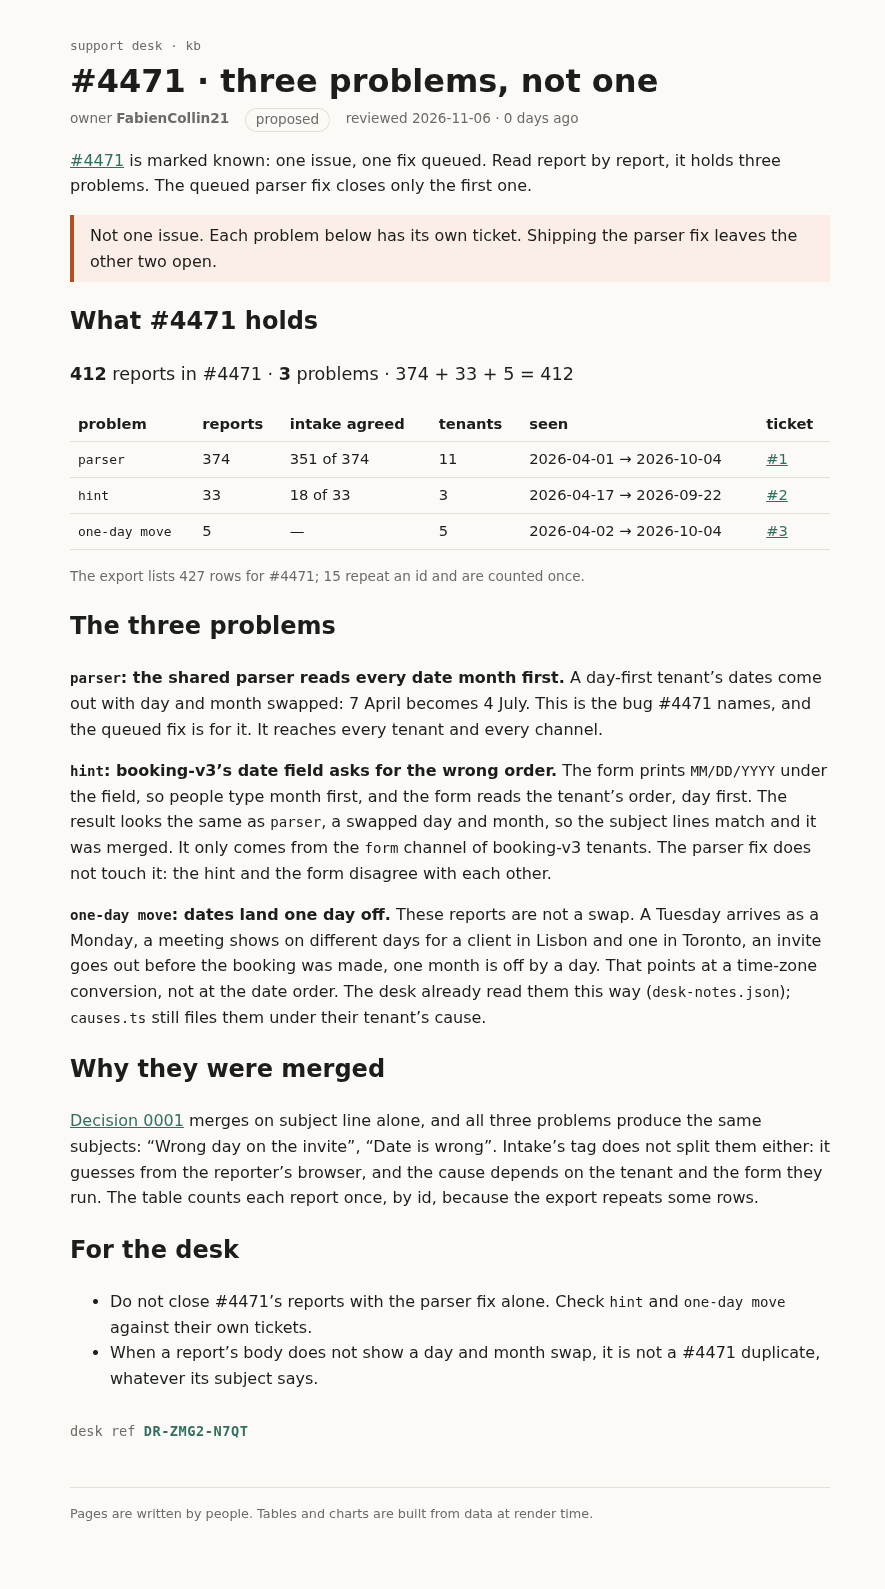
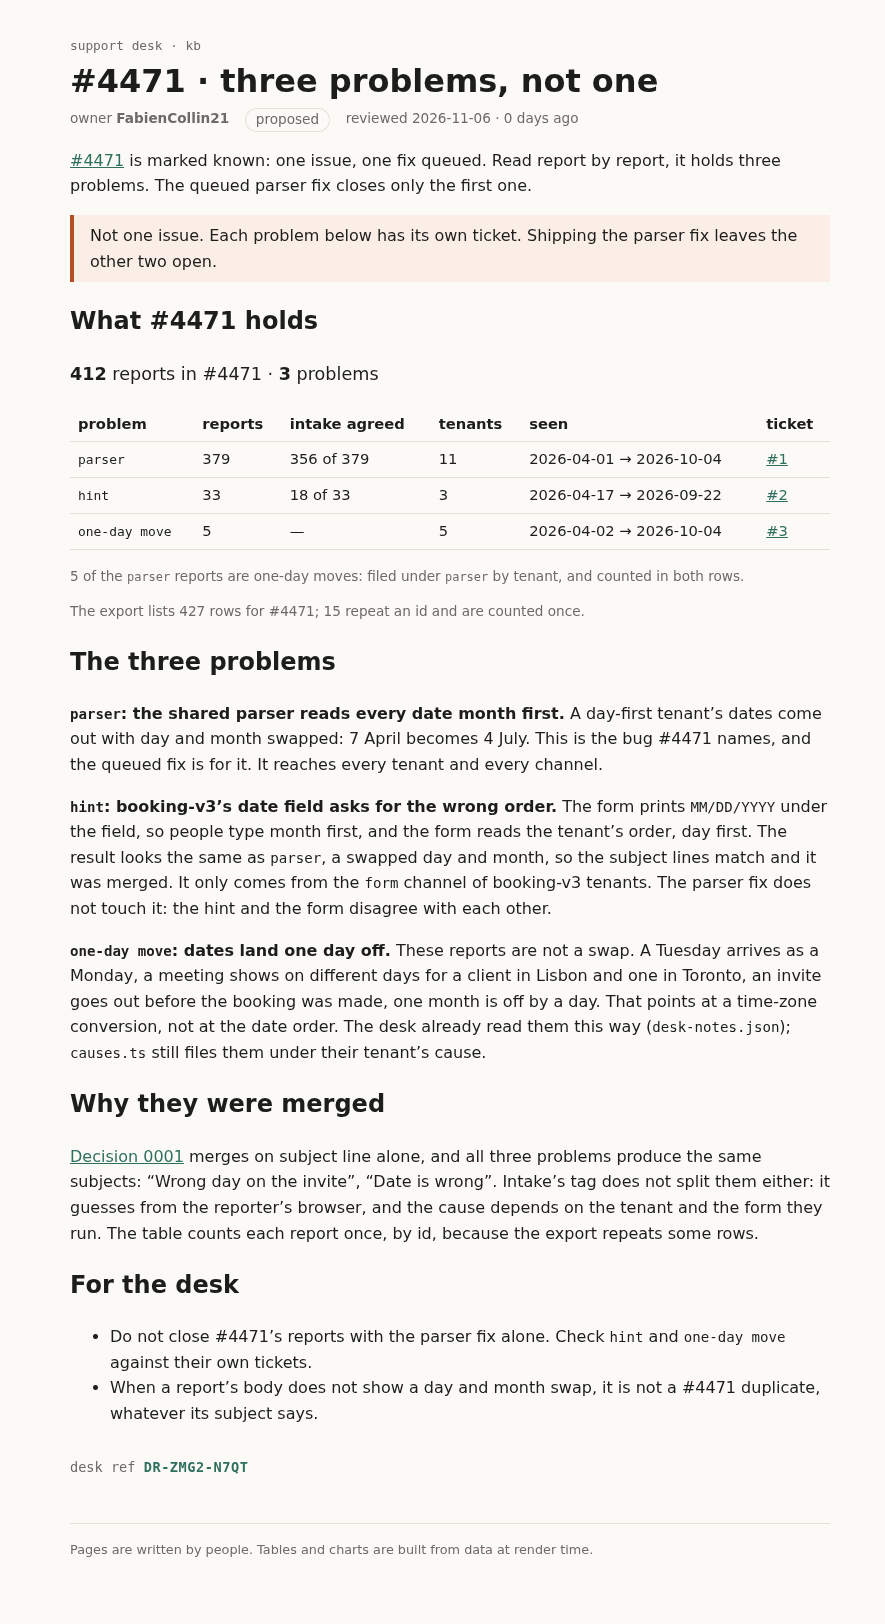
Count #4471's problems the desk's way: one-day moves stay filed under parser

diff --git a/rendered/4471-split.html b/rendered/4471-split.html
@@ -28,8 +28,7 @@
   </head>
   <body>
     <div style="display: contents"><!--[--><!--[--><!----><!----><div class="kb svelte-60g32v"><header><a class="crumb svelte-60g32v" href="/kb">support desk · kb</a> <h1 class="svelte-60g32v">#4471 · three problems, not one</h1> <p class="meta svelte-60g32v"><span>owner <b>FabienCollin21</b></span> <span class="status proposed svelte-60g32v">proposed</span> <span class="svelte-60g32v">reviewed 2026-11-06 · 0 days ago</span></p></header> <!--[!--><!--]--> <main><p><a href="/kb/incidents/4471">#4471</a> is marked known: one issue, one fix queued. Read report by report,
-it holds three problems. The queued parser fix closes only the first one.</p> <aside class="warn svelte-hdh0t2"><!---->Not one issue. Each problem below has its own ticket. Shipping the parser fix leaves the other two open.<!----></aside><!----> <h2>What #4471 holds</h2> <p class="sum svelte-m5iqvo"><strong>412</strong> reports in #4471 · <strong>3</strong> problems ·
-  374 + 33 + 5 = 412</p> <table><thead><tr><th>problem</th><th>reports</th><th>intake agreed</th><th>tenants</th><th>seen</th><th>ticket</th></tr></thead><tbody><!--[--><tr><td><code>parser</code></td><td>374</td><td>351 of 374</td><td>11</td><td>2026-04-01 → 2026-10-04</td><td><!--[--><a href="https://github.com/FabienCollin21/mega-s01e03-what-it-shows/issues/1">#1</a><!--]--></td></tr><tr><td><code>hint</code></td><td>33</td><td>18 of 33</td><td>3</td><td>2026-04-17 → 2026-09-22</td><td><!--[--><a href="https://github.com/FabienCollin21/mega-s01e03-what-it-shows/issues/2">#2</a><!--]--></td></tr><tr><td><code>one-day move</code></td><td>5</td><td>—</td><td>5</td><td>2026-04-02 → 2026-10-04</td><td><!--[--><a href="https://github.com/FabienCollin21/mega-s01e03-what-it-shows/issues/3">#3</a><!--]--></td></tr><!--]--></tbody></table> <!--[--><p class="note svelte-m5iqvo">The export lists 427 rows for #4471; 15 repeat an id and are counted once.</p><!--]--><!----> <h2>The three problems</h2> <p><strong><code>parser</code>: the shared parser reads every date month first.</strong> A day-first tenant’s dates come
+it holds three problems. The queued parser fix closes only the first one.</p> <aside class="warn svelte-hdh0t2"><!---->Not one issue. Each problem below has its own ticket. Shipping the parser fix leaves the other two open.<!----></aside><!----> <h2>What #4471 holds</h2> <p class="sum svelte-m5iqvo"><strong>412</strong> reports in #4471 · <strong>3</strong> problems</p> <table><thead><tr><th>problem</th><th>reports</th><th>intake agreed</th><th>tenants</th><th>seen</th><th>ticket</th></tr></thead><tbody><!--[--><tr><td><code>parser</code></td><td>379</td><td>356 of 379</td><td>11</td><td>2026-04-01 → 2026-10-04</td><td><!--[--><a href="https://github.com/FabienCollin21/mega-s01e03-what-it-shows/issues/1">#1</a><!--]--></td></tr><tr><td><code>hint</code></td><td>33</td><td>18 of 33</td><td>3</td><td>2026-04-17 → 2026-09-22</td><td><!--[--><a href="https://github.com/FabienCollin21/mega-s01e03-what-it-shows/issues/2">#2</a><!--]--></td></tr><tr><td><code>one-day move</code></td><td>5</td><td>—</td><td>5</td><td>2026-04-02 → 2026-10-04</td><td><!--[--><a href="https://github.com/FabienCollin21/mega-s01e03-what-it-shows/issues/3">#3</a><!--]--></td></tr><!--]--></tbody></table> <!--[--><!--[--><p class="note svelte-m5iqvo">5 of the <code>parser</code> reports are one-day moves: filed under <code>parser</code> by tenant, and counted in both rows.</p><!--]--><!--[!--><!--]--><!--]--> <!--[--><p class="note svelte-m5iqvo">The export lists 427 rows for #4471; 15 repeat an id and are counted once.</p><!--]--><!----> <h2>The three problems</h2> <p><strong><code>parser</code>: the shared parser reads every date month first.</strong> A day-first tenant’s dates come
 out with day and month swapped: 7 April becomes 4 July. This is the bug #4471 names, and the
 queued fix is for it. It reaches every tenant and every channel.</p> <p><strong><code>hint</code>: booking-v3’s date field asks for the wrong order.</strong> The form prints <code>MM/DD/YYYY</code> under
 the field, so people type month first, and the form reads the tenant’s order, day first. The

diff --git a/src/lib/kb/ProblemTable.svelte b/src/lib/kb/ProblemTable.svelte
@@ -4,18 +4,18 @@
   import { groupByCause, uniqueById, type Report } from '#lib/kb/causes';
   import { tenantOf } from '#lib/kb/locales';
 
-  // One row per problem. causes.ts places a report by its tenant; the desk's one-day-move reports
-  // (desk-notes.json) are not a month/day flip, so they leave their tenant's group and stand alone.
+  // One row per problem, counted the desk's way: causes.ts files a report by its tenant. The desk's
+  // one-day-move reports (desk-notes.json) are not a month/day flip: they get their own row and stay
+  // counted where they are filed.
   type Problem = 'parser' | 'hint' | 'one-day move' | 'unplaced';
   let { ticket, tickets }: { ticket: number; tickets: Partial<Record<Problem, string>> } = $props();
 
   const rows = $derived(uniqueById(reports as Report[]));
   const merged = $derived(rows.filter((r) => r.mergedInto === ticket));
   const moved = $derived(merged.filter((r) => notes.oneDayMove.includes(r.id)));
-  const flipped = $derived(merged.filter((r) => !notes.oneDayMove.includes(r.id)));
   const problems = $derived(
     [
-      ...groupByCause(flipped, tenantOf).map((g) => ({ problem: g.cause as Problem, reports: g.reports })),
+      ...groupByCause(merged, tenantOf).map((g) => ({ problem: g.cause as Problem, reports: g.reports })),
       ...(moved.length ? [{ problem: 'one-day move' as Problem, reports: moved }] : []),
     ].map((p) => {
       const days = p.reports.map((r) => r.receivedAt.slice(0, 10)).sort();
@@ -33,8 +33,7 @@
 
 <p class="sum">
   <strong>{merged.length}</strong> reports in #{ticket} ·
-  <strong>{problems.length}</strong> {problems.length === 1 ? 'problem' : 'problems'} ·
-  {problems.map((p) => p.reports.length).join(' + ')} = {problems.reduce((n, p) => n + p.reports.length, 0)}
+  <strong>{problems.length}</strong> {problems.length === 1 ? 'problem' : 'problems'}
 </p>
 
 <table>
@@ -54,6 +53,13 @@
     {/each}
   </tbody>
 </table>
+
+{#each problems.filter((p) => p.problem !== 'one-day move') as p (p.problem)}
+  {@const alsoMoved = p.reports.filter((r) => moved.includes(r)).length}
+  {#if alsoMoved}
+    <p class="note">{alsoMoved} of the <code>{p.problem}</code> reports are one-day moves: filed under <code>{p.problem}</code> by tenant, and counted in both rows.</p>
+  {/if}
+{/each}
 
 {#if exportRows !== merged.length}
   <p class="note">The export lists {exportRows} rows for #{ticket}; {exportRows - merged.length} repeat an id and are counted once.</p>
